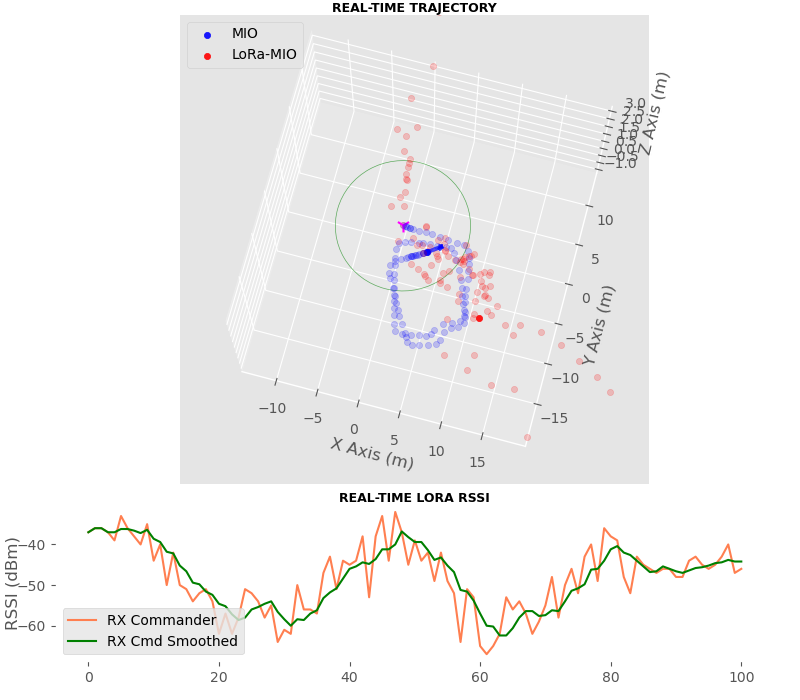
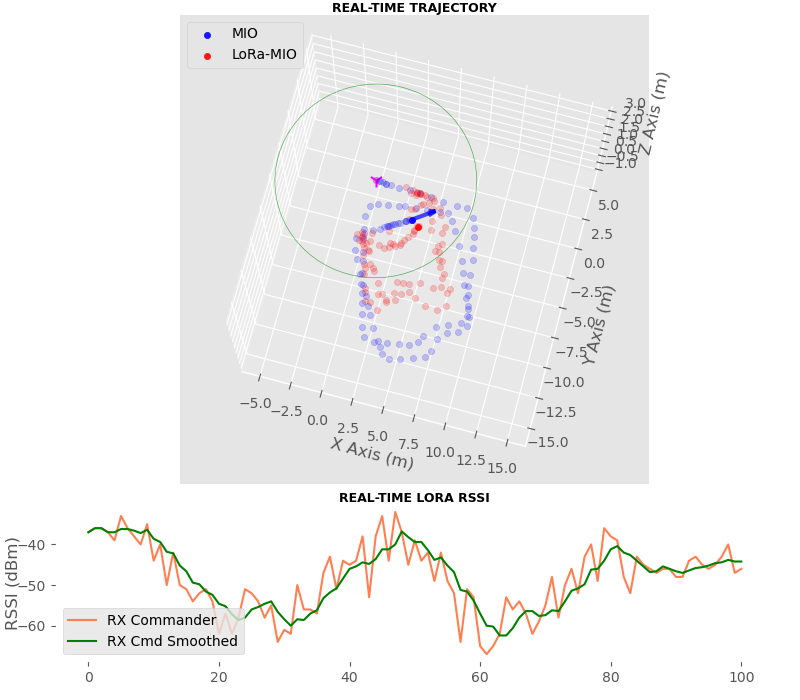
Implemented origin state model PF

diff --git a/PF.py b/PF.py
@@ -43,18 +43,21 @@ SIGMA = 4.887
 # prior sampling function for each variable
 prior_fn = independent_sample(
     [
-        norm(loc=0, scale=0.5).rvs,
-        norm(loc=0, scale=0.5).rvs,
-        uniform(loc=-math.pi, scale=math.pi).rvs,  #norm(loc=0, scale=0.1).rvs,
-        gamma(a=1, loc=0, scale=1).rvs,
-        norm(loc=0, scale=0.01).rvs,
-        norm(loc=0, scale=0.05).rvs,
+        norm(loc=0, scale=1.0).rvs,
+        norm(loc=0, scale=1.0).rvs,
+        norm(loc=0, scale=0.1).rvs,  #uniform(loc=-math.pi, scale=math.pi).rvs,
+        #gamma(a=1, loc=0, scale=1).rvs,
+        #norm(loc=0, scale=0.01).rvs,
+        #norm(loc=0, scale=0.05).rvs,
     ]
 )
 
 
 def main():
-    fuse_engine = PF_Fusion(anchor=1, num_particle=10000, resample_rate=0.005, visual=True)
+    # Key params to Tweek:
+    # 1. num_particle & resample_rate
+    # 2. noise_fn determines process noise
+    fuse_engine = PF_Fusion(anchor=1, num_particle=1000, resample_rate=0.01, visual=True)
 
     for filename in os.listdir('TEST'):
         if filename.endswith('.txt'):
@@ -131,23 +134,7 @@ def constantAW(X, dt=0.1):
     # Still Using the 1st order Taylor Series of ConstantA model as State Transition!?
     xp = np.zeros(X.shape)
     for i, x in enumerate(X):
-        '''
-        xp[i] = (
-                x
-                @ np.array(
-            [
-                [1, 0, dt * x[3] * math.sin(x[2]) - 0.5 * dt ** 2 * x[5] * math.sin(x[2]),
-                 dt * math.cos(x[2]), 0, 0.5 * dt ** 2 * math.cos(x[2])],
-                [0, 1, dt * x[3] * math.cos(x[2]) + 0.5 * dt ** 2 * x[5] * math.sin(x[2]),
-                 dt * math.sin(x[2]), 0, 0.5 * dt ** 2 * math.sin(x[2])],
-                [0, 0, 1, 0, dt, 0],
-                [0, 0, 0, 1, 0, dt],
-                [0, 0, 0, 0, 1, 0],
-                [0, 0, 0, 0, 0, 1]
-            ]
-        ).T
-        )
-        '''
+
         F = np.array([[1, 0, dt * x[3] * math.sin(x[2]) - 0.5 * dt ** 2 * x[5] * math.sin(x[2]),
                  dt * math.cos(x[2]), 0, 0.5 * dt ** 2 * math.cos(x[2])],
                 [0, 1, dt * x[3] * math.cos(x[2]) + 0.5 * dt ** 2 * x[5] * math.sin(x[2]),
@@ -157,12 +144,44 @@ def constantAW(X, dt=0.1):
                 [0, 0, 0, 0, 1, 0],
                 [0, 0, 0, 0, 0, 1]])
         xp[i] = np.dot(F, x.reshape(-1, 1)).reshape((1, -1))
+
     #print(xp.shape)
     return xp
 
 
+def measurement_origin(X, dt=0.1, anchor=1):
+    """Given an Nx(3 + RSSIs) matrix of derived measurements,
+    compute measurement of [TRANS_X, TRANS_Y, ROT_Z, RSSIs...]^T that would correspond to state x.
+    """
+    Z = np.zeros((X.shape[0], 3 + anchor))
+    for i, x in enumerate(X):
+        h = np.array([x[0], x[1], x[2]]).reshape((-1, 1))
+        for row in range(0, anchor):
+            dis = np.linalg.norm(x[:2] - R1[row, :2])
+            thres_dis = 0.1
+            if dis > thres_dis:
+                rssi = ALPHA * math.log10(dis) + BETA
+            else:
+                rssi = ALPHA * math.log10(thres_dis) + BETA
+            # Measurement comprises (X, Y, Rot_Z, RSSIs...)
+            h = np.vstack((h, np.array([[rssi]])))
+        # print("hx return shape: ", h.shape)
+        Z[i] = h.reshape((1, -1))
+    return Z
+
+
+# Origin Model
+def origin(X, dt=0.1):
+    xp = np.zeros(X.shape)
+    for i, x in enumerate(X):
+        F = np.eye(3)
+        xp[i] = np.dot(F, x.reshape(-1, 1)).reshape((1, -1))
+    # print(xp.shape)
+    return xp
+
+
 # names (this is just for reference for the moment!)
-columns = ["x", "y", "theta", "v", "w", "a"]
+columns = ["x", "y", "theta"]#, "v", "w", "a"]
 
 
 class PF_Fusion():
@@ -173,11 +192,11 @@ class PF_Fusion():
         # create the Particle Filter
         self.pf = ParticleFilter(
             prior_fn=prior_fn,
-            observe_fn=lambda x: measurement(x, self.dt, self.anchor),
-            resample_fn=multinomial_resample,
+            observe_fn=lambda x: measurement_origin(x, self.dt, self.anchor),
+            resample_fn=stratified_resample,  #multinomial_resample,
             n_particles=num_particle,
-            dynamics_fn=lambda x: constantAW(x, self.dt),
-            noise_fn=lambda x: cauchy_noise(x, sigmas=[0.00001, 0.00001, 0.00000001, 0.0000001, 0.00000001, 0.0000005]),
+            dynamics_fn=lambda x: origin(x, self.dt),
+            noise_fn=lambda x: cauchy_noise(x, sigmas=[0.5, 0.5, 0.01]),
             weight_fn=lambda x, y: squared_error(x, y, sigma=2),
             resample_proportion=resample_rate,
             column_names=columns,
@@ -226,7 +245,7 @@ class PF_Fusion():
         self.time = []
         self.path = []
         self.path_pf = []
-        self.abs_yaw = 0
+        self.abs_yaw, self.abs_x, self.abs_y = [], [], []
 
 
 
@@ -269,23 +288,28 @@ class PF_Fusion():
 
             # pos.odom_quat = tf.transformations.quaternion_from_matrix(pos.pred_transform_t_1)
             # print(pos.odom_quat)
+
+            # Compute ABS_POSE
+            self.abs_x.append(abs_pred_transform[0, 3])
+            self.abs_y.append(abs_pred_transform[1, 3])
+
+            euler_rot = np.array([[abs_pred_transform[0, 0], abs_pred_transform[0, 1], abs_pred_transform[0, 2]],
+                                  [abs_pred_transform[1, 0], abs_pred_transform[1, 1], abs_pred_transform[1, 2]],
+                                  [abs_pred_transform[2, 0], abs_pred_transform[2, 1], abs_pred_transform[2, 2]]],
+                                 dtype=float)
+            # euler_rad = (yaw, pitch, roll)
+            euler_rad = mat2euler(euler_rot)
+            self.abs_yaw.append(euler_rad[0])
+            # print("Current Eular = ", euler_rad)
+            self.odom_quat = np.array(euler2quat(euler_rad[0], euler_rad[1], euler_rad[2]))
+            # print("Current Quaternion = ", self.odom_quat)
+
         gap = int(len(msg_list) / len_pose)
         # print(self.out_pred_array[-1])
 
-        euler_rot = np.array([[abs_pred_transform[0, 0], abs_pred_transform[0, 1], abs_pred_transform[0, 2]],
-                              [abs_pred_transform[1, 0], abs_pred_transform[1, 1], abs_pred_transform[1, 2]],
-                              [abs_pred_transform[2, 0], abs_pred_transform[2, 1], abs_pred_transform[2, 2]]],
-                             dtype=float)
-        # euler_rad = (yaw, pitch, roll)
-        euler_rad = mat2euler(euler_rot)
-        self.abs_yaw = euler_rad[0]
-        # print("Current Eular = ", euler_rad)
-        self.odom_quat = np.array(euler2quat(euler_rad[0], euler_rad[1], euler_rad[2]))
-        # print("Current Quaternion = ", self.odom_quat)
-
         # Unit Vector from Eular Angle; Simplify Orientation Representation by Pitch = 0
-        self.U = math.cos(self.abs_yaw)  # math.cos(euler_rad[0])*math.cos(euler_rad[1])
-        self.V = math.sin(self.abs_yaw)  # math.sin(euler_rad[0])*math.cos(euler_rad[1])
+        self.U = math.cos(self.abs_yaw[-1])  # math.cos(euler_rad[0])*math.cos(euler_rad[1])
+        self.V = math.sin(self.abs_yaw[-1])  # math.sin(euler_rad[0])*math.cos(euler_rad[1])
         self.W = 0  # math.sin(euler_rad[1])
 
         self.path.append([abs_pred_transform[0, 3], abs_pred_transform[1, 3], 0])
@@ -294,13 +318,40 @@ class PF_Fusion():
         start_t = time.time()
 
         # Trigger PF
-        self.rt_run(gap)
+        self.rt_run_origin(gap)  #self.rt_run(gap)
         print("Elapsed time of PF = ", time.time() - start_t)
-        print("ABS_YAW: %.3f (=%.3f OR %.3f)" % (self.abs_yaw, self.abs_yaw - 2 * math.pi, self.abs_yaw - 4 * math.pi))
+        print("ABS_YAW: %.3f (=%.3f OR %.3f)" % (self.abs_yaw[-1], self.abs_yaw[-1] - 2 * math.pi, self.abs_yaw[-1] - 4 * math.pi))
         print("State X:\n", self.pf.mean_state)
 
         if self.visual:
-            self.rt_show()
+            self.rt_show(t_limit=100.)
+
+
+    def rt_run_origin(self, gap):
+
+        for g in range(gap, 0, -1):
+            start_t = time.time()
+            # Get Measurement [ABS_X, ABS_Y, ABS_YAW('Rad')]
+            final_xyZ = [self.abs_x[-g], self.abs_y[-g], self.abs_yaw[-g]]
+            # Populate ONE Rssi for a 'gap' of Poses
+            if self.anchor:
+                final_xyZ.append(float(self.smoothed_rssi_list[-1]))  # Utilize Smoothed RSSI for Fusion
+            if self.rssi_list2:
+                final_xyZ.append(self.smoother(self.rssi_list2))
+            if self.rssi_list3:
+                final_xyZ.append(self.smoother(self.rssi_list3))
+
+            z = np.asarray(final_xyZ, dtype=float).reshape(-1, 1)
+            #print("Measurement z: ", z)
+            # TODO Add data integraty check: X+ value explodes
+
+            # Feed Observation to Update
+            self.pf.update(z)
+
+            # Log Posterior State x
+            self.xs.append(self.pf.mean_state)
+            # print("X+:\n", self.pf.mean_state)
+            # print("PF per round takes %.6f s" % (time.time() - start_t))
 
 
     def rt_run(self, gap):
@@ -385,7 +436,7 @@ class PF_Fusion():
         # Not Attempting to Visual PF Updated Orientation
         # self.handle_arrw_pf = self.ax21.quiver([self.my_kf.x[0, 0]], [self.my_kf.x[1, 0]], [self.my_kf.x[2, 0]], self.U_pf, self.V_pf, self.W_pf, color='r', length=1., alpha=.7)
         # Manually Equal Axis and Limit
-        self.ax21.auto_scale_xyz([-12, 18], [-18, 12], [-1, 3])
+        self.ax21.auto_scale_xyz([-5, 15], [-15, 5], [-1, 3])
 
         # Plot Range
         if self.anchor:

diff --git a/replay.py b/replay.py
@@ -372,7 +372,7 @@ class EKF_Fusion_ConstantA(EKF_Fusion_MultiRX_AngularV):
             tk = 0.1*len(self.path)
             #qk = 0.005*np.random.rand()*abs(math.sin(2*math.pi*tk))
             mu, sigma = 0., 0.0001
-            a = np.random.normal(0, sigma)
+            a = np.random.normal(mu, sigma)
             qk = sigma**2
             Gk = np.array([[0.5 * self.dt ** 2 * math.cos(self.my_kf.x[2, 0])],
                            [0.5 * self.dt ** 2 * math.sin(self.my_kf.x[2, 0])],
@@ -380,7 +380,7 @@ class EKF_Fusion_ConstantA(EKF_Fusion_MultiRX_AngularV):
                            [self.dt],
                            [0],
                            [1]])
-            self.my_kf.Q = np.dot(Gk, qk).dot(Gk.transpose())
+            self.my_kf.Q = np.dot(Gk, qk).dot(Gk.reshape((1, -1)))
             #print(self.my_kf.Q)
             '''
             # IMPOSE CONSTRAINTS
@@ -411,16 +411,16 @@ class EKF_Origin(EKF_Fusion_MultiRX_AngularV):
         # TWEEK PARAMS
         self.my_kf.x = np.array([-0.1, 0.1, 0.]).reshape(-1, 1)
         # Error Cov of Initial State
-        self.my_kf.P = np.diag(np.array([1.0, 1.0, 0.1]))
+        self.my_kf.P = np.diag(np.array([10.0, 10.0, 1.0]))
         # Process Noise Cov
-        self.my_kf.Q = np.diag(np.array([0.01, 0.01, 0.0001]))
+        self.my_kf.Q = np.diag(np.array([0.1, 0.1, 0.01]))
 
     def rt_run(self, gap):
 
         for g in range(gap, 0, -1):
             start_t = time.time()
             # Get Measurement [ABS_X, ABS_Y, ABS_YAW('Rad')]
-            final_xyZ = [self.abs_x[-g], self.abs_y[-g], self.abs_yaw[-1]]
+            final_xyZ = [self.abs_x[-g], self.abs_y[-g], self.abs_yaw[-g]]
             # Populate ONE Rssi for a 'gap' of Poses
             if self.anchor:
                 final_xyZ.append(float(self.smoothed_rssi_list[-1]))  # Utilize Smoothed RSSI for Fusion
@@ -434,9 +434,9 @@ class EKF_Origin(EKF_Fusion_MultiRX_AngularV):
             # TODO Add data integraty check: X+ value explodes
 
             # Refresh Measurement noise R
-            self.my_kf.R[0, 0] = 0.1  # ABS_X
-            self.my_kf.R[1, 1] = 0.1  # ABS_Y
-            self.my_kf.R[2, 2] = 0.0001  # ABS_YAW
+            self.my_kf.R[0, 0] = 0.5  # ABS_X
+            self.my_kf.R[1, 1] = 0.5  # ABS_Y
+            self.my_kf.R[2, 2] = 0.01  # ABS_YAW
             for rowcol in range(3, 3+self.anchor):
                 self.my_kf.R[rowcol, rowcol] = 0.1 * SIGMA**2
 
@@ -467,7 +467,7 @@ def synthetic_rssi(data_len, period=1., Amp=20., phase=0., mean=-43., noiseAmp=0
 
 if __name__=="__main__":
 
-    ekf = EKF_Origin(anchor=0)
+    ekf = EKF_Origin(anchor=1)
     #ekf = EKF_Fusion_ConstantA(anchor=1)
     #ekf = EKF_Fusion_PosVel(anchor=0)
 

diff --git a/EKF.py b/EKF.py
@@ -655,7 +655,7 @@ class EKF_Fusion():
         # Not Attempting to Visual EKF Updated Orientation
         #self.handle_arrw_ekf = self.ax21.quiver([self.my_kf.x[0, 0]], [self.my_kf.x[1, 0]], [self.my_kf.x[2, 0]], self.U_ekf, self.V_ekf, self.W_ekf, color='r', length=1., alpha=.7)
         # Manually Equal Axis and Limit
-        self.ax21.auto_scale_xyz([-10, 15], [-15, 10], [-1, 3])
+        self.ax21.auto_scale_xyz([-5, 15], [-15, 5], [-1, 3])
 
         # Plot Range
         if self.anchor:

diff --git a/README.md b/README.md
@@ -8,16 +8,16 @@ python3 rx_lora.py P2P 10
 
 ### SIR Particle Filter
 
-Two rounds of left-hand search:
+Two rounds of left-hand search with Particle Filter:
 
 ![left2](https://github.com/zdai257/LoRaRX/blob/main/demo0.png)
 
 ### Extended Kalman Filter
 
-Two rounds of left-hand search with RSSI-decoupled EKF which uses absolute 2D poses as measurement:
+Two rounds of left-hand search with EKF which uses absolute 2D poses as measurement:
 
 ![live_plot](https://github.com/zdai257/LoRaRX/blob/main/demo1.png)
 
-Two rounds of left-Hand Search using the same model as above with heavy RSSI average filtering:
+THREE rounds of left-Hand Search using the same model as above. Path constraining effect is explicit:
 
 ![sim_ekf_plot](https://github.com/zdai257/LoRaRX/blob/main/demo2.png)
